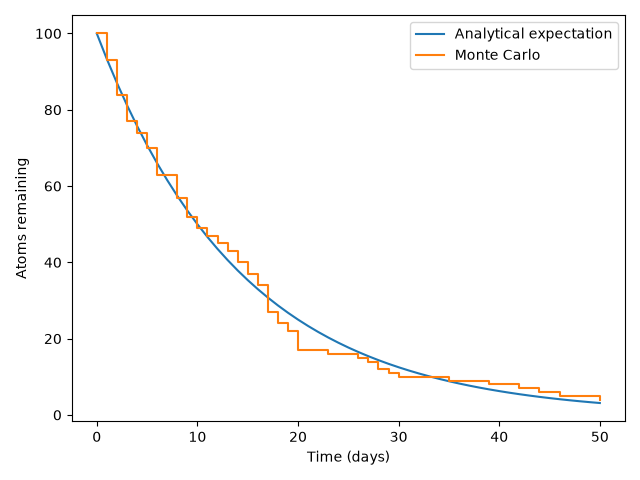
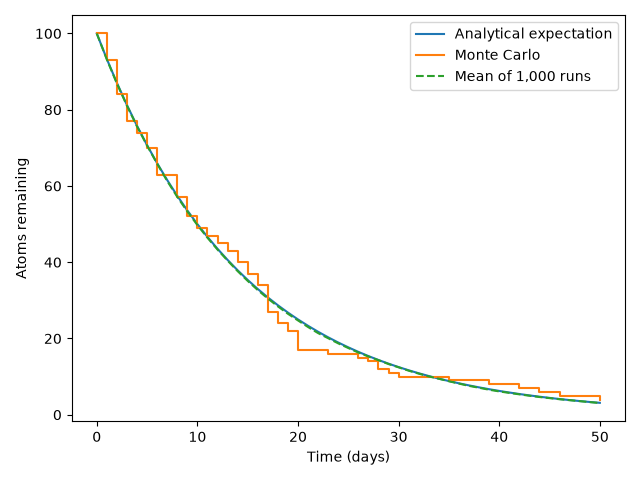
Average Monte Carlo decay runs and compare with solution

diff --git a/monte_carlo_decay.py b/monte_carlo_decay.py
@@ -15,22 +15,35 @@ decay_probability = 1 - np.exp(-decay_constant * dt)
 print(f"Probability of decay in one step: {decay_probability:.2%}")
 time = np.arange(0, duration + dt, dt)
 
-atoms = np.zeros(len(time), dtype=int)
-atoms[0] = atoms_initial
+def simulate_decay(time, initial_atoms, decay_probability, rng):
+    atoms = np.zeros(len(time), dtype=int)
+    atoms[0] = initial_atoms
 
-for i in range(len(time) - 1):
-    decayed = rng.binomial(atoms[i], decay_probability)
-    atoms[i + 1] = atoms[i] - decayed
+    for i in range(len(time) - 1):
+        decayed = rng.binomial(atoms[i], decay_probability)
+        atoms[i + 1] = atoms[i] - decayed
 
+    return atoms
+
+atoms = simulate_decay(time, atoms_initial, decay_probability, rng)
 print("Atoms remaining after 50 days:", atoms[-1])
-print("Atoms that decayed:", decayed)
-print("Atoms remaining after 50 days:", atoms[-1])
+print("Total atoms that decayed:", atoms_initial - atoms[-1])
+number_runs = 1000
+all_runs = []
+
+for run in range(number_runs):
+    result = simulate_decay(time, atoms_initial, decay_probability, rng)
+    all_runs.append(result)
+
+mean_atoms = np.mean(all_runs, axis=0)
+print("Average final population:", mean_atoms[-1])
 expected_atoms = atoms_initial * np.exp(-decay_constant * time)
 
 plt.plot(time, expected_atoms, label="Analytical expectation")
 plt.step(time, atoms, where="post", label="Monte Carlo")
 plt.xlabel("Time (days)")
 plt.ylabel("Atoms remaining")
+plt.plot(time, mean_atoms, "--", label="Mean of 1,000 runs")
 plt.legend()
 plt.tight_layout()
 plt.savefig("monte_carlo_decay.png")
